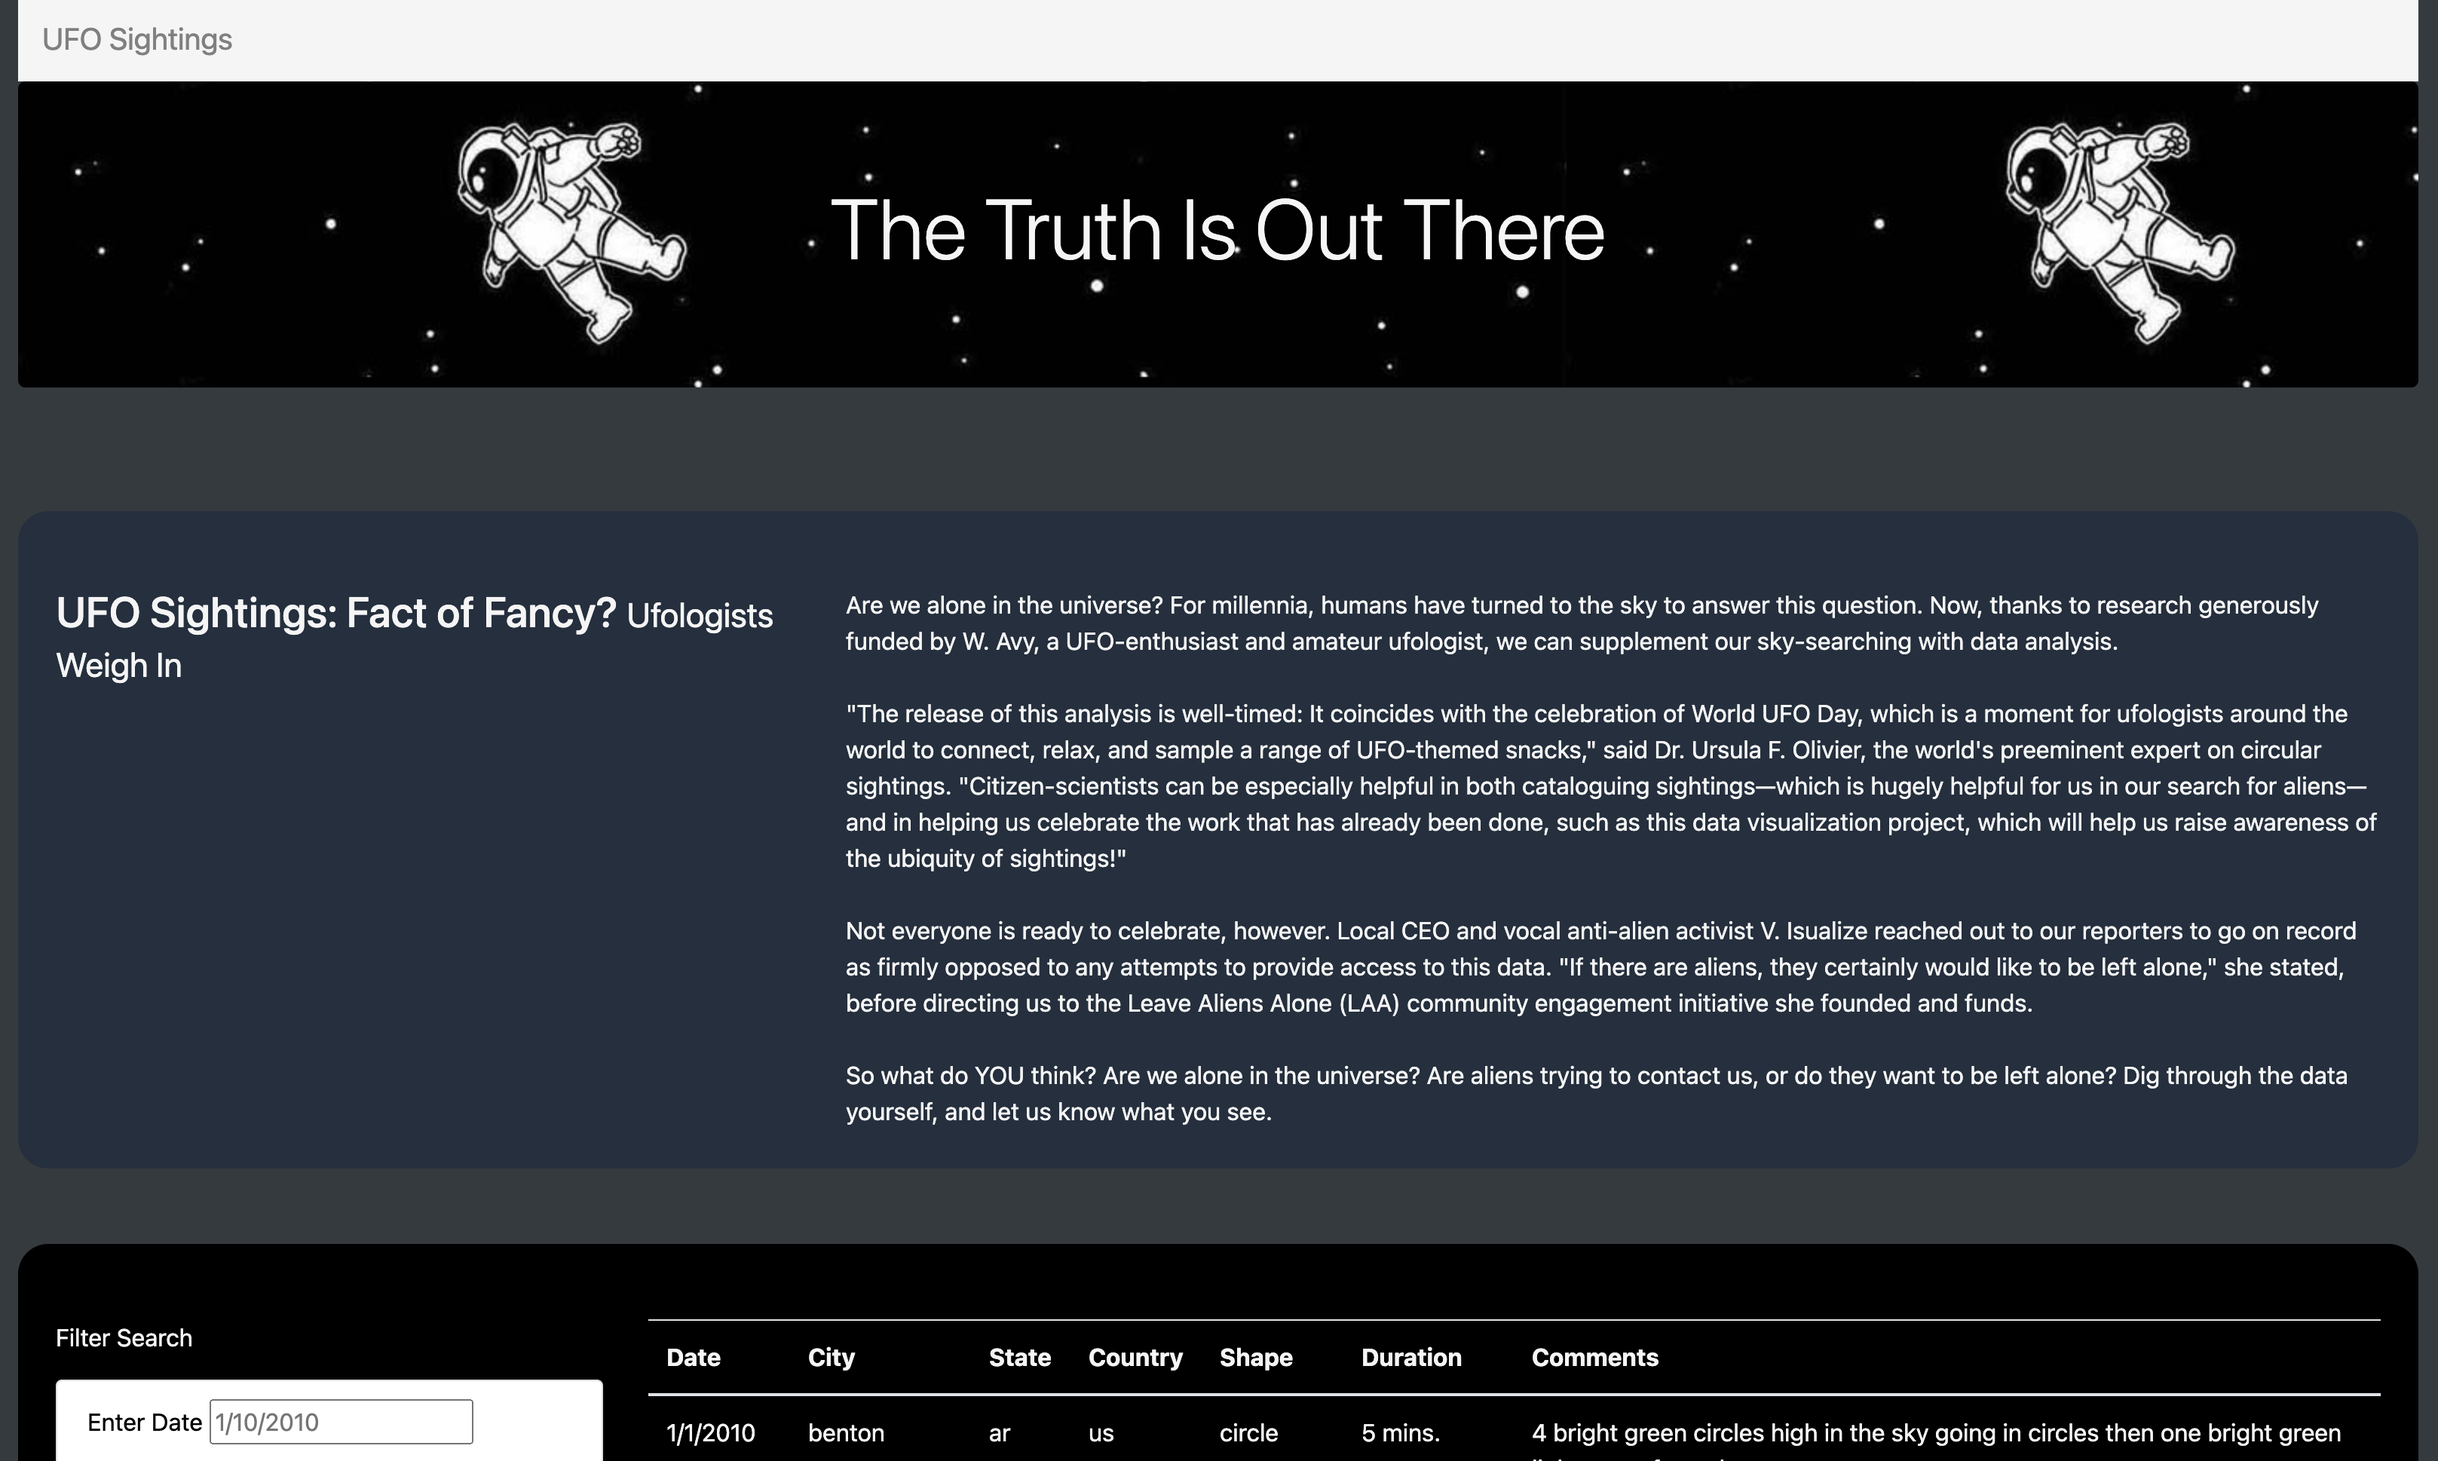
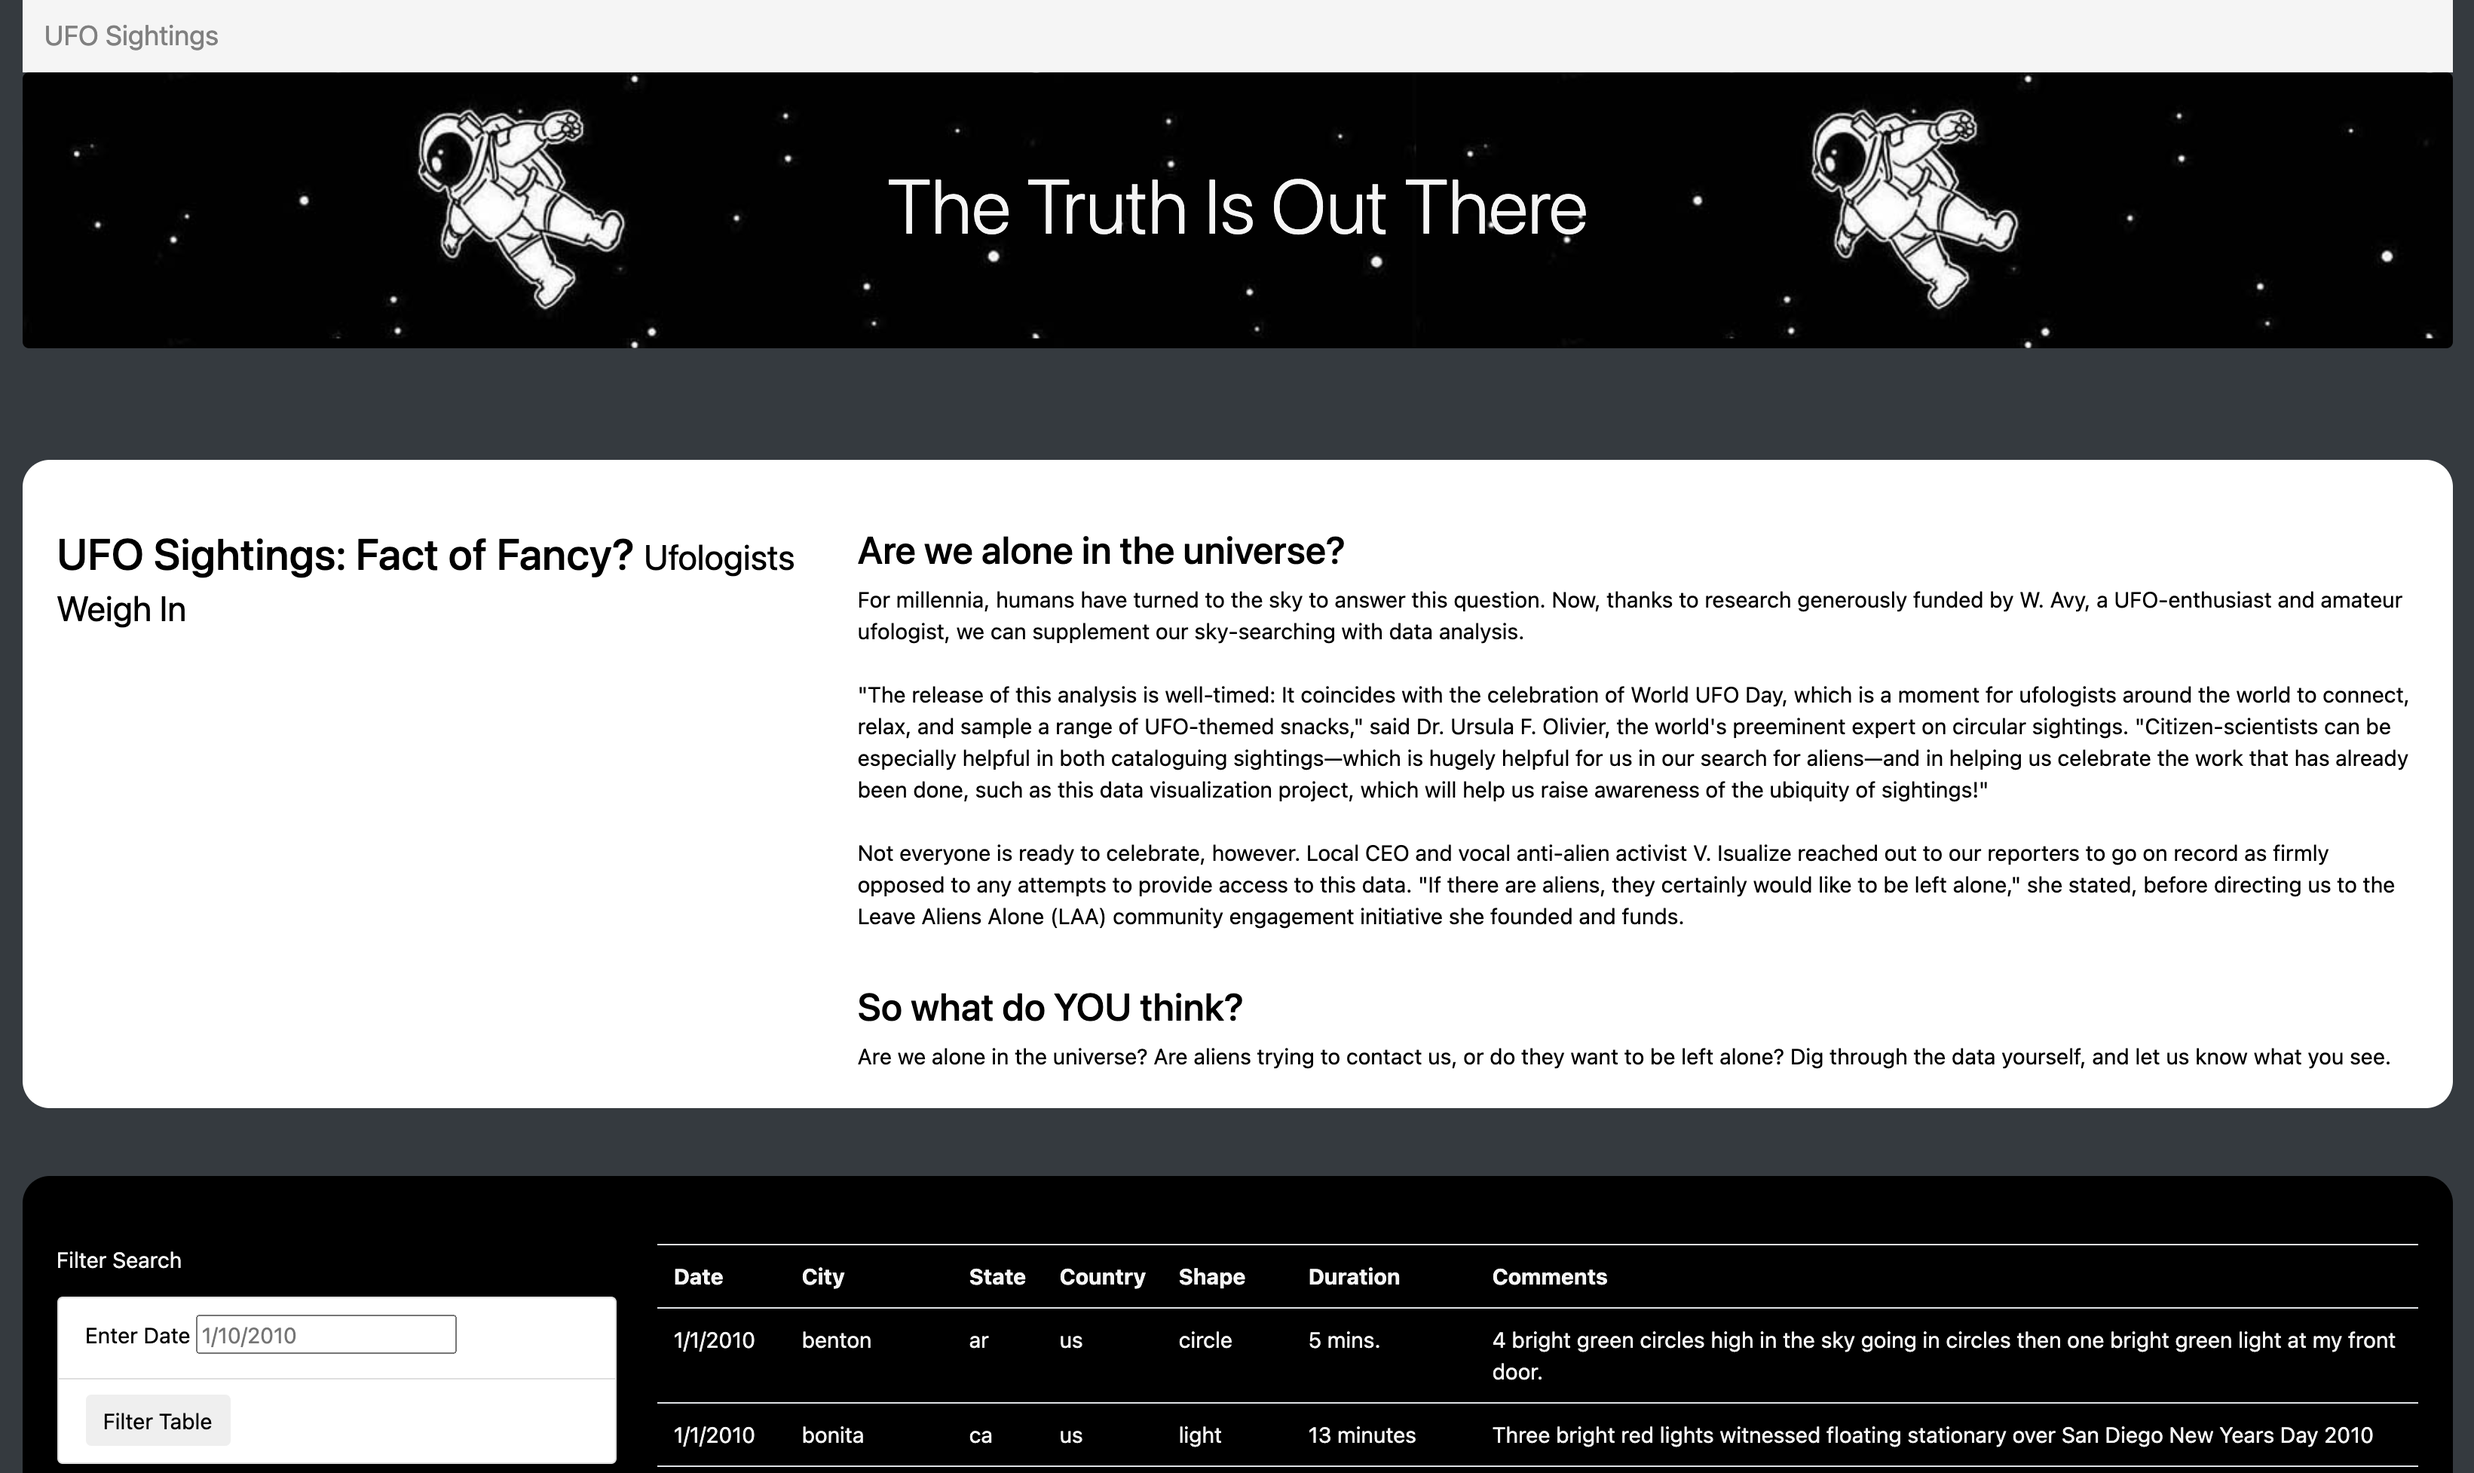
init HTML

diff --git a/index.html b/index.html
@@ -31,34 +31,34 @@
         <div class="row grey">
           <!-- Article TITLE -->
           <div class="col-md-4">
-            <h3>
+            <h2>
               UFO Sightings: Fact of Fancy? <small>Ufologists Weigh In</small>
-            </h3>
+            </h2>
           </div>
           <!-- Article BODY -->
           <div class="col-md-8">
+            <h3>Are we alone in the universe?</h3>
             <p>
-              Are we alone in the universe? For millennia, humans have turned to
-              the sky to answer this question. Now, thanks to research
-              generously funded by W. Avy, a UFO-enthusiast and amateur
-              ufologist, we can supplement our sky-searching with data
-              analysis.<br /><br />"The release of this analysis is well-timed:
-              It coincides with the celebration of World UFO Day, which is a
-              moment for ufologists around the world to connect, relax, and
-              sample a range of UFO-themed snacks," said Dr. Ursula F. Olivier,
-              the world's preeminent expert on circular sightings.
-              "Citizen-scientists can be especially helpful in both cataloguing
-              sightings—which is hugely helpful for us in our search for
-              aliens—and in helping us celebrate the work that has already been
-              done, such as this data visualization project, which will help us
-              raise awareness of the ubiquity of sightings!"<br /><br />Not
+              For millennia, humans have turned to the sky to answer this
+              question. Now, thanks to research generously funded by W. Avy, a
+              UFO-enthusiast and amateur ufologist, we can supplement our
+              sky-searching with data analysis.<br /><br />"The release of this
+              analysis is well-timed: It coincides with the celebration of World
+              UFO Day, which is a moment for ufologists around the world to
+              connect, relax, and sample a range of UFO-themed snacks," said Dr.
+              Ursula F. Olivier, the world's preeminent expert on circular
+              sightings. "Citizen-scientists can be especially helpful in both
+              cataloguing sightings—which is hugely helpful for us in our search
+              for aliens—and in helping us celebrate the work that has already
+              been done, such as this data visualization project, which will
+              help us raise awareness of the ubiquity of sightings!"<br /><br />Not
               everyone is ready to celebrate, however. Local CEO and vocal
               anti-alien activist V. Isualize reached out to our reporters to go
               on record as firmly opposed to any attempts to provide access to
               this data. "If there are aliens, they certainly would like to be
               left alone," she stated, before directing us to the Leave Aliens
               Alone (LAA) community engagement initiative she founded and
-              funds.<br /><br />So what do YOU think? Are we alone in the
+              funds.<br /><br /><h3>So what do YOU think? </h3> Are we alone in the
               universe? Are aliens trying to contact us, or do they want to be
               left alone? Dig through the data yourself, and let us know what
               you see.

diff --git a/static/js/app.js b/static/js/app.js
@@ -1,19 +1,15 @@
-// D3.js, to equip our website to "listen" for events, such as a user clicking a button.
-// import the data from data.js
+// from data.js
 const tableData = data;
-// Reference the HTML table using d3
+
+// get table references
 var tbody = d3.select("tbody");
-// JavaScript uses zero-based indexing. This means that the first item in an array will be assigned an index placement of 0.
-//
-//
-// 11.5.2
+
 function buildTable(data) {
   // First, clear out any existing data
   tbody.html("");
 
   // Next, loop through each object in the data
   // and append a row and cells for each value in the row
-  // By starting our line of code with Object.values, we're telling JavaScript to reference one object from the array of UFO sightings. By adding (dataRow
   data.forEach((dataRow) => {
     // Append a row to the table body
     let row = tbody.append("tr");
@@ -27,27 +23,44 @@ function buildTable(data) {
   });
 }
 
-function handleClick() {
-  // Grab the datetime value from the filter
-  let date = d3.select("#datetime").property("value");
-  let filteredData = tableData;
+// 1. Create a variable to keep track of all the filters as an object.
 
-  // Check to see if a date was entered and filter the
-  // data using that date.
-  if (date) {
-    // Apply `filter` to the table data to only keep the
-    // rows where the `datetime` value matches the filter value
-    filteredData = filteredData.filter((row) => row.datetime === date);
+
+// 3. Use this function to update the filters. 
+function updateFilters() {
+
+    // 4a. Save the element that was changed as a variable.
+
+    // 4b. Save the value that was changed as a variable.
+
+    // 4c. Save the id of the filter that was changed as a variable.
+
+  
+    // 5. If a filter value was entered then add that filterId and value
+    // to the filters list. Otherwise, clear that filter from the filters object.
+ 
+  
+    // 6. Call function to apply all filters and rebuild the table
+    filterTable();
+  
   }
-
-  // Rebuild the table using the filtered data
-  // @NOTE: If no date was entered, then filteredData will
-  // just be the original tableData.
-  buildTable(filteredData);
-}
-
-// Attach an event to listen for the form button
-d3.selectAll("#filter-btn").on("click", handleClick);
-
-// Build the table when the page loads
-buildTable(tableData);
+  
+  // 7. Use this function to filter the table when data is entered.
+  function filterTable() {
+  
+    // 8. Set the filtered data to the tableData.
+    
+  
+    // 9. Loop through all of the filters and keep any data that
+    // matches the filter values
+    
+  
+    // 10. Finally, rebuild the table using the filtered data
+    
+  }
+  
+  // 2. Attach an event to listen for changes to each filter
+  
+  
+  // Build the table when the page loads
+  buildTable(tableData);

diff --git a/static/js/app.js.old.js b/static/js/app.js.old.js
@@ -1,0 +1,53 @@
+// D3.js, to equip our website to "listen" for events, such as a user clicking a button.
+// import the data from data.js
+const tableData = data;
+// Reference the HTML table using d3
+var tbody = d3.select("tbody");
+// JavaScript uses zero-based indexing. This means that the first item in an array will be assigned an index placement of 0.
+//
+//
+// 11.5.2
+function buildTable(data) {
+  // First, clear out any existing data
+  tbody.html("");
+
+  // Next, loop through each object in the data
+  // and append a row and cells for each value in the row
+  // By starting our line of code with Object.values, we're telling JavaScript to reference one object from the array of UFO sightings. By adding (dataRow
+  data.forEach((dataRow) => {
+    // Append a row to the table body
+    let row = tbody.append("tr");
+
+    // Loop through each field in the dataRow and add
+    // each value as a table cell (td)
+    Object.values(dataRow).forEach((val) => {
+      let cell = row.append("td");
+      cell.text(val);
+    });
+  });
+}
+
+function handleClick() {
+  // Grab the datetime value from the filter
+  let date = d3.select("#datetime").property("value");
+  let filteredData = tableData;
+
+  // Check to see if a date was entered and filter the
+  // data using that date.
+  if (date) {
+    // Apply `filter` to the table data to only keep the
+    // rows where the `datetime` value matches the filter value
+    filteredData = filteredData.filter((row) => row.datetime === date);
+  }
+
+  // Rebuild the table using the filtered data
+  // @NOTE: If no date was entered, then filteredData will
+  // just be the original tableData.
+  buildTable(filteredData);
+}
+
+// Attach an event to listen for the form button
+d3.selectAll("#filter-btn").on("click", handleClick);
+
+// Build the table when the page loads
+buildTable(tableData);

diff --git a/static/css/styles.css b/static/css/styles.css
@@ -41,5 +41,6 @@
 }
 
 .grey {
-  background-color: #222f3e;
+  background-color: white;
+  color: black;
 }
